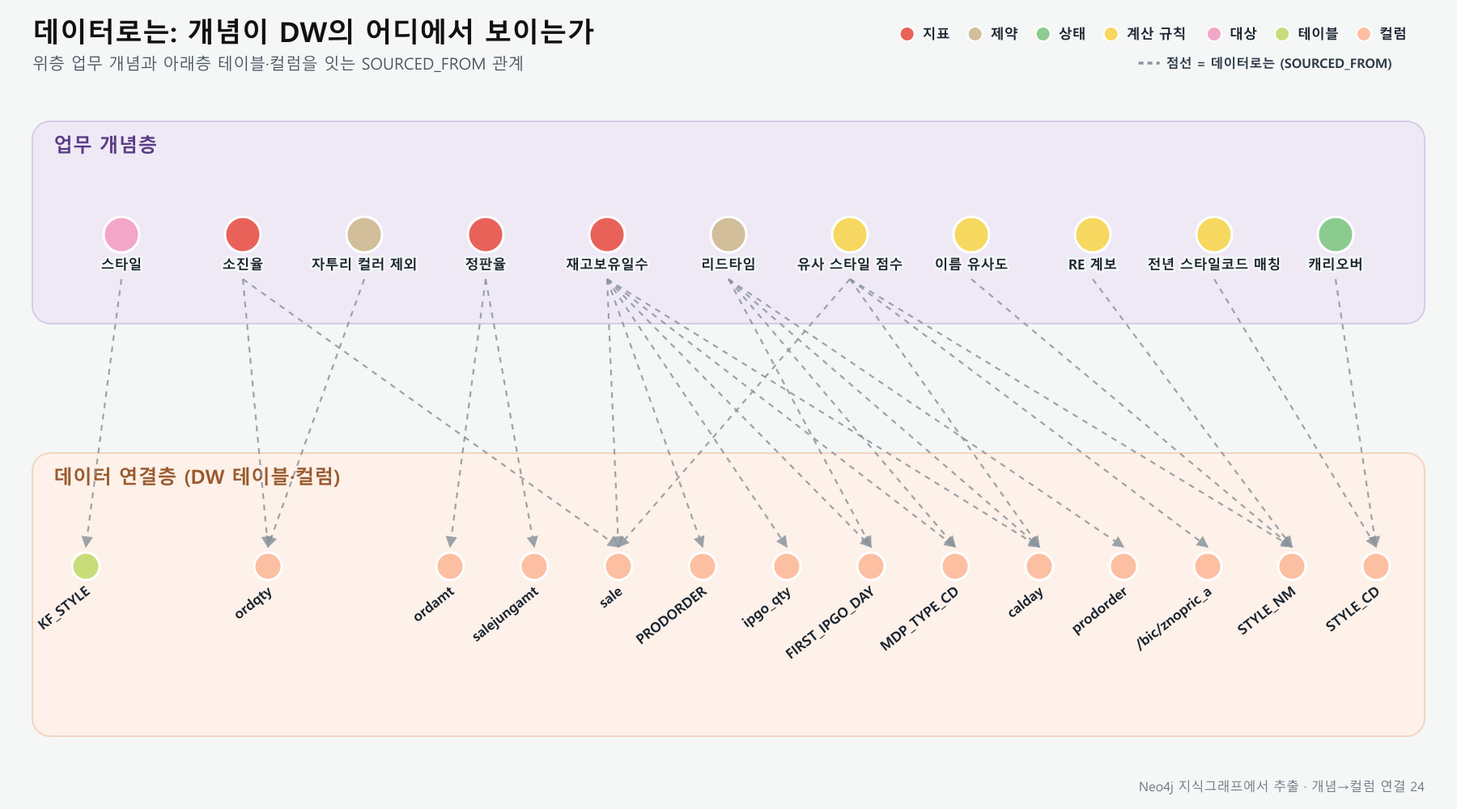
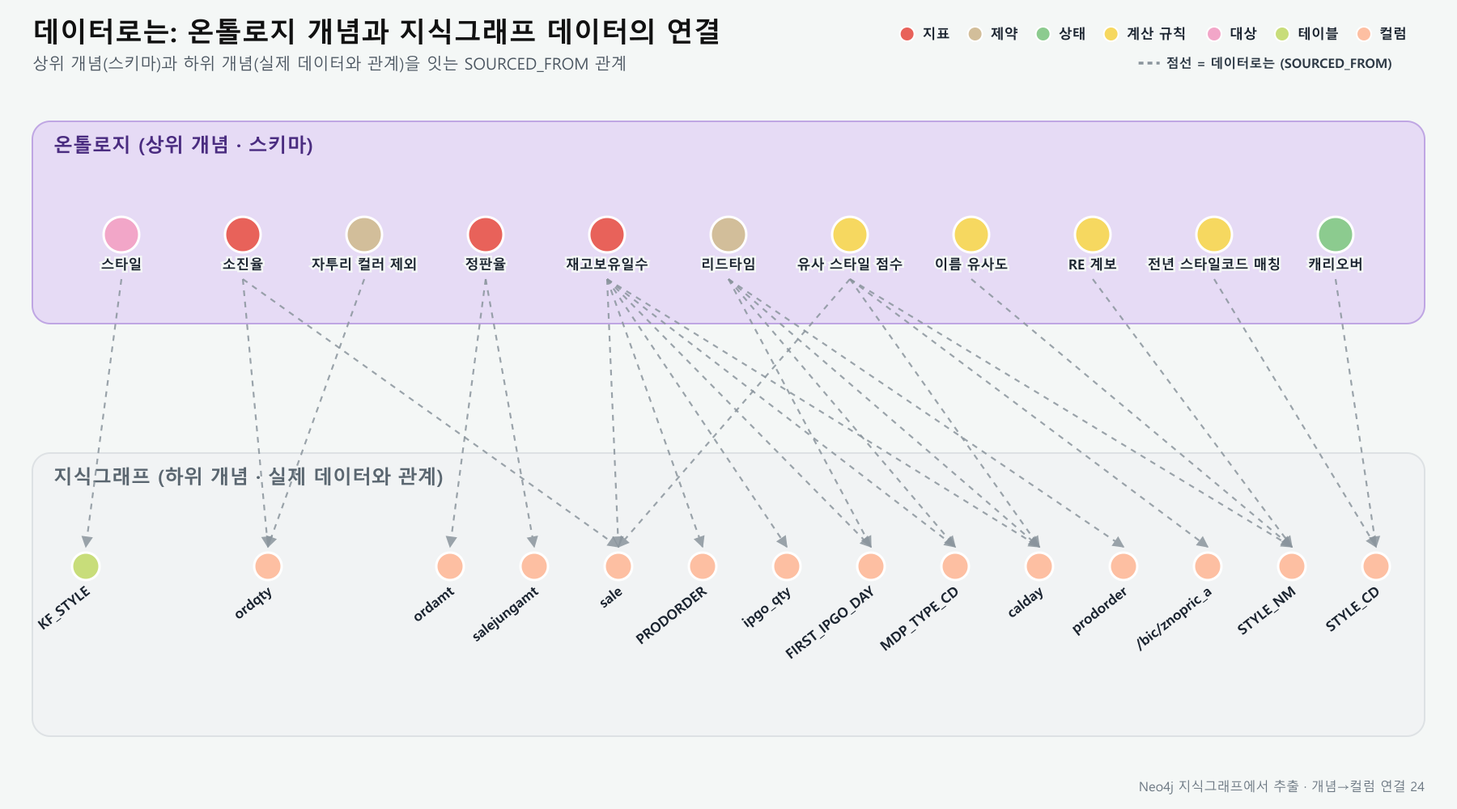
온톨로지·지식그래프 표현 정리, 이미지 클릭 확대, PaaS 배포 건수 카드 등 문구·구성 수정
- 이미지 클릭 시 화면 가득 확대(닫기: 클릭·Esc·버튼)
- MD 프로젝트: 제목 변경, 성과 카드(질문 범위 확대) 정리, 주관 판단 문구 삭제
  온톨로지(상위 개념·스키마)에 색칠, 지식그래프(하위 개념·실제 데이터와 관계)로 층 이름 변경
  질문 처리 과정 3단계로 간소화, 진행 단계 4개로 교체, 데이터 연결 이미지 재작성
- PaaS: 배포 건수 카드를 성공률 90% 반영해 앞에 추가
- AX 교육: 배경 문구 교체, 커넥터 교육자료 캡션 정리
- 단계 표시 열 수를 단계 개수에 맞춤

Changed region(s): [[0.0311, 0.0, 0.4978, 0.093], [0.0311, 0.558, 0.3111, 0.62], [0.0311, 0.155, 0.2178, 0.186]]

diff --git a/src/data/projects.ts b/src/data/projects.ts
@@ -4,7 +4,7 @@ export type FeatureItem = { title: string; body: string };
 export type FeatureSection = { eyebrow: string; title: string; summary: string; items: FeatureItem[] };
 export type VisionStep = { title: string; body: string };
 export type Vision = { lead: string; note: string; steps: VisionStep[]; jobs: string[] };
-export type SystemLayer = { name: string; role: string; items: { label: string; note?: string }[] };
+export type SystemLayer = { name: string; role: string; items: { label: string; note?: string }[]; /** true 인 층을 색 바탕으로 강조 (없으면 마지막 층) */ tint?: boolean };
 export type SystemArchitecture = {
   intro: string;
   layers: SystemLayer[];
@@ -280,7 +280,7 @@ export const PROJECTS: Project[] = [
     slug: "md-ontology-design",
     part: 1,
     group: "② 온톨로지",
-    title: "MD 업무 온톨로지 구축: 데이터 카탈로그에서 업무 개념층으로",
+    title: "온톨로지 구축: 데이터 카탈로그에 업무 개념층 추가",
     short: "MD 업무 온톨로지",
     subtitle: "DW 테이블·컬럼 중심의 시맨틱 레이어에서 업무 판단 개념을 추가한 업무 온톨로지 재설계",
     period: "2026.11 ~ 진행 중",
@@ -288,7 +288,7 @@ export const PROJECTS: Project[] = [
     purpose:
       "기존 데이터 카탈로그(시맨틱 레이어)에서 업무 노하우를 담은 온톨로지 구축을 통한 판단 질문까지 답변 범위 확장",
     metrics: [
-      { value: "질문 범위 확대", label: "주관적인 판단 질문에도 응답할 수 있음", note: "할인율 · 리오더수량 · 리오더시점 · 분배 · 주력판매채널" }
+      { value: "할인율 · 리오더수량 · 리오더시점 · 분배 · 주력판매채널", label: "질문 범위 확대" }
     ],
     roles: [
       "MD 출신 당사자로서 테이블을 보지 않고 매주 내리던 판단 5가지를 인터뷰 형식으로 끌어내 업무 개념과 인과 관계부터 정리",
@@ -300,17 +300,15 @@ export const PROJECTS: Project[] = [
       "회사의 불문율·업무 방식이 들어 있지 않아, 시맨틱 레이어가 있더라도 사용자가 세션마다 회사의 판단 기준을 그때그때 넣어줘야 했음.",
     system: {
       intro:
-        "층 뒤집기. 위층에 MD 지식으로 만든 업무 개념층을, 아래층에 지금까지 만든 데이터 연결층을 배치. ‘핏 불만 → 사이즈 이슈 → 반품 증가 → 정판율 하락’ 같은 관계는 어떤 DW에도 적혀 있지 않은 MD 경험 지식이며, 이것이 온톨로지의 본체이자 KPI 질의 스킬과 결정적으로 갈리는 지점임. 점선 ‘데이터로는’ 관계가 위층 개념을 아래층 데이터에 연결.",
+        "기존 지식그래프(시맨틱 레이어)는 DW 데이터 연결층으로 ‘핏 불만 → 사이즈 이슈 → 반품 증가 → 정판율 하락’ 같은 MD 경험 지식을 담아 빠른 의사결정을 지원하고자 함",
       layers: [
-        { name: "1. 업무 개념층 (MD 지식)", role: "명사는 개념, 동사는 관계. 개념은 DW가 아니라 MD 세계에서 온 바구니(라벨)로 구분.", items: [{ label: "지표", note: "소진율 · 정판율 · 재고보유일수 · 초기 판매율" }, { label: "상태·단계", note: "PLC 도입 · 성장 · 피크 · 감소" }, { label: "판단", note: "리오더 · 채널 주력 · 할인 시점 · 다음 시즌 발주" }, { label: "제약", note: "재고보유일수 · 리드타임" }, { label: "시점·사건", note: "시즌 엔딩 · 시즌오프 · 예측 피크 통과" }] },
-        { name: "2. 데이터 연결층 (기존 지식그래프)", role: "개념이 ‘데이터로는 어디서 보이는가’를 알려주는 층. 지금까지의 작업은 버려지지 않고 위층이 데이터를 잘못 읽지 않게 보호.", items: [{ label: "정판율 → DW 매출 지표", note: undefined }, { label: "핏 불만 → 리뷰 텍스트 · 플랫폼 세부평가", note: undefined }, { label: "지켜 주는 사실", note: "수선·심의 CS 채널은 고객 리뷰가 아님 · 자사몰 사진은 미수집 · 주얼리는 입고마다 줄이 쌓임" }] }
+        { tint: true, name: "1. 온톨로지 (상위 개념 · 스키마)", role: "명사는 개념, 동사는 관계. 개념은 DW가 아니라 MD 세계에서 온 바구니(라벨)로 구분.", items: [{ label: "지표", note: "소진율 · 정판율 · 재고보유일수 · 초기 판매율" }, { label: "상태·단계", note: "PLC 도입 · 성장 · 피크 · 감소" }, { label: "판단", note: "리오더 · 채널 주력 · 할인 시점 · 다음 시즌 발주" }, { label: "제약", note: "재고보유일수 · 리드타임" }, { label: "시점·사건", note: "시즌 엔딩 · 시즌오프 · 예측 피크 통과" }] },
+        { name: "2. 지식그래프 (하위 개념 · 실제 데이터와 관계)", role: "개념이 ‘데이터로는 어디서 보이는가’를 알려주는 층. 지금까지의 작업은 버려지지 않고 위층이 데이터를 잘못 읽지 않게 보호.", items: [{ label: "정판율 → DW 매출 지표", note: undefined }, { label: "핏 불만 → 리뷰 텍스트 · 플랫폼 세부평가", note: undefined }, { label: "지켜 주는 사실", note: "수선·심의 CS 채널은 고객 리뷰가 아님 · 자사몰 사진은 미수집 · 주얼리는 입고마다 줄이 쌓임" }] }
       ],
       flow: [
-        { title: "판단 질문", body: "“이 스타일 왜 안 팔려? 어떻게 해야 해?”처럼 숫자가 아니라 판단을 물음." },
-        { title: "판단 노드 찾기", body: "개념층에서 해당 판단 노드를 찾고, 어느 PLC 단계인지부터 확인. 도입기 상품에 할인을 고민하지 않고 쇠퇴기 상품을 리오더하지 않듯, 다섯 판단은 모두 PLC 단계 주변에 매달림." },
-        { title: "막는 관계(예외)", body: "잘 팔리는데도 실행하지 않는 경우는 일반 규칙과 섞지 않고 ‘막는’ 관계로 따로 둠. 일반 규칙만 있는 온톨로지는 ‘팔리면 늘린다’밖에 모르지만, 막는 관계가 있으면 ‘팔리긴 하는데 할인으로 팔린 거라 안 된다’까지 앎." },
-        { title: "데이터로는", body: "여기서야 아래층을 엶. 정판율은 DW 매출 지표에서, 핏 불만은 리뷰 텍스트에서 읽음." },
-        { title: "결과 평가 → 다음 판단", body: "소진율, 재고보유일수(20일 이하면 ‘금방 팔렸다’), 정판율로 잘한 결정이었는지 확인. 후보 기준과 평가 기준이 겹치므로 판단 → 결과 → 다음 판단 고리가 생기고, 이것이 온톨로지가 ‘배우는’ 구조의 시작임." }
+        { title: "사용자 판단 질의", body: "“이 스타일 왜 안 팔려? 어떻게 해야 해?”" },
+        { title: "판단 노드 찾기", body: "도입기, 쇠퇴기 등 어느 PLC 단계인지 확인." },
+        { title: "데이터로는", body: "하위 개념인 지식그래프를 통해 정확한 숫자 확인. 정판율은 매출 지표에서, 핏 불만은 리뷰 텍스트 테이블 조회." }
       ],
       principles: [
         { title: "중심은 데이터가 아니라 업무 세계", body: "테이블·컬럼은 개념이 데이터로 어디서 보이는지 알려주는 아래층일 뿐입니다. 라벨도 Table·Column이 아니라 지표·상태·판단·제약·시점처럼 MD 세계에서 온 바구니로 만듭니다." },
@@ -320,12 +318,12 @@ export const PROJECTS: Project[] = [
         { title: "테이블은 마지막에 연다", body: "Neo4j도 Snowflake도 열지 않고 인터뷰와 표 두 개(개념 표·관계 표)로 시작합니다. 표가 차면 그때 Neo4j로 옮기고, 방법은 익힌 MERGE 그대로입니다." }
       ]
     },
-    steps: ["데이터 카탈로그 진단", "2층 구조로 뒤집기", "MD 주간 판단 5가지 인터뷰", "개념 표 · 관계 표 작성", "Neo4j로 이관(예정)"],
+    steps: ["SO/MD 직무 인터뷰 (업무 내 판단 기준)","개념 표 · 관계 표 작성","Neo4j로 이관","Neo4j MCP 연결"],
     stack: ["Neo4j", "Cypher 쿼리", "Snowflake"],
     image: {
       src: "/projects/md-ontology-overview.png",
       alt: "업무 개념층 그래프: 판단·지표·상태·사건·제약·계산 규칙 30개 노드와 38개 관계",
-      caption: "업무 개념층 그래프: 판단·지표·상태·사건·제약·계산 규칙이 원인과 근거로 이어진 구조 (노드 30 · 관계 38)",
+      caption: "온톨로지 (상위 개념): 판단·지표·상태·사건·제약·계산 규칙이 원인과 근거로 이어진 업무 개념층 (노드 30 · 관계 38)",
       width: 1800,
       height: 1000
     },
@@ -347,7 +345,7 @@ export const PROJECTS: Project[] = [
       {
         src: "/projects/md-ontology-data-link.png",
         alt: "업무 개념 노드가 DW 테이블과 컬럼 노드에 점선으로 연결된 2층 구조 그래프",
-        caption: "데이터로는: 위층 업무 개념과 아래층 DW 컬럼을 잇는 SOURCED_FROM 관계 (연결 24)",
+        caption: "데이터로는: 상위 개념(온톨로지)과 하위 개념(지식그래프)을 잇는 SOURCED_FROM 관계 (연결 24)",
         width: 1800,
         height: 1000
       }
@@ -372,7 +370,10 @@ export const PROJECTS: Project[] = [
       "현업이 직접 만든 웹도구를 개발자 도움 없이 배포하고 운영 지원하는 사내 PaaS. 전체 배포현황 및 웹별 MAU·호출 수, 배포 도메인 통합 관리",
     background:
       "개별 직원이 제작한 웹서비스를 개별 서버로 배포하니 회사 내부 정보 관리가 어렵고 외부 DB·외부 호스팅으로 회사 데이터 반출되는 현황 파악 어려움. 배포를 회사 안으로 모아 한곳에서 관리하고, 내부 정보·보안·비용을 통합하고자 제작",
-    metrics: [{ value: "90%", label: "배포 성공률", note: "n=235건" }],
+    metrics: [
+      { value: "235건", label: "배포 건수", note: "성공률 90% 반영 시 성공 약 212건 · 실패 약 23건" },
+      { value: "90%", label: "배포 성공률", note: "235건 중 약 212건 성공" }
+    ],
     roles: [
       "원클릭 배포 가드레일 문서(AI 개발 도구용 규칙) 작성과 배포, 교육",
       "Claude Code Skill 요구사항·호출 조건·동작 방식 설계: 배포 전에 프로젝트를 PaaS 기준에 맞게 점검",
@@ -554,7 +555,7 @@ export const PROJECTS: Project[] = [
     period: "2026.02 ~ 진행 중",
     purpose: "조직 내 AX 전환율 20% 달성을 위해 교육·온보딩·운영 지원을 설계",
     background:
-      "AI 도구를 쓰라고는 했지만 ‘어디서 무엇부터 시작해야 하는지’를 아는 직원이 적음. 일회성 강의는 듣고 끝났고, 자기 업무 문제를 Agent로 만들어 본 사람은 드묾. 수준 차이가 커서 같은 강의로는 초보에게는 어렵고 숙련자에게는 지루함.\n소규모로, 수준별로, 반복해서 가르치고, 교육이 끝나면 실제로 Agent 하나를 만들어 올리는 것까지를 완료 기준으로 삼는 교육이 필요함.",
+      "사내 AX 전환 20%를 위해 어디서부터 시작해야 할지 모르는 직원들을 위해 소규모로, 수준별 반복 오프라인 교육 진행하여 세션별로 인원이 신청해서 수강. 매 세션 종료 시 웹 형태의 본인 도구 하나 완성",
     metrics: [
       { value: "약 500명", label: "AI Agent 교육" }
     ],
@@ -605,7 +606,7 @@ export const PROJECTS: Project[] = [
       height: 1536
     },
     images: [
-      { src: "/projects/ax-connector-slide.png", alt: "교육자료 ‘커넥터(Connector)란?’ 슬라이드: 클로드를 사내 시스템에 꽂아주는 전원 콘센트라는 비유, 꼭 알아둘 점 4가지(사내 커넥터 하나만 연결, 끊기면 ‘데이터가 없습니다’, 읽기 전용, 사내 계정 로그인 필요), 커넥터 안의 연결 4개(dw-mcp 사내 DW, graph-mcp 지식그래프, mail-mcp 메일·일정, hr-mcp 인사 시스템)", caption: "교육자료 중 ‘커넥터(Connector)란?’: 비유 → 꼭 알아둘 점 4가지 → 커넥터 안의 연결 4개 순서로, 개발 용어 대신 콘센트 비유로 설명하는 슬라이드 (시스템·브랜드명은 일반 명칭으로 바꿈)", width: 2400, height: 1400 }
+      { src: "/projects/ax-connector-slide.png", alt: "교육자료 ‘커넥터(Connector)란?’ 슬라이드: 클로드를 사내 시스템에 꽂아주는 전원 콘센트라는 비유, 꼭 알아둘 점 4가지(사내 커넥터 하나만 연결, 끊기면 ‘데이터가 없습니다’, 읽기 전용, 사내 계정 로그인 필요), 커넥터 안의 연결 4개(dw-mcp 사내 DW, graph-mcp 지식그래프, mail-mcp 메일·일정, hr-mcp 인사 시스템)", caption: "커넥터 교육자료", width: 2400, height: 1400 }
     ],
     tags: ["AI Agent 교육", "교육", "온보딩"]
   },

diff --git a/src/data/projects.en.ts b/src/data/projects.en.ts
@@ -255,7 +255,7 @@ export const PROJECTS_EN: Record<string, Partial<Project>> = {
   },
   "md-ontology-design": {
     group: "② Ontology",
-    title: "Building the MD Business Ontology: From Data Catalog to Concept Layer",
+    title: "Building the Ontology: Adding a Business-Concept Layer to the Data Catalog",
     short: "MD business ontology",
     subtitle: "From a semantic layer centered on DW tables and columns to a business ontology with business-judgment concepts added",
     period: "2026.11 – ongoing",
@@ -263,7 +263,7 @@ export const PROJECTS_EN: Record<string, Partial<Project>> = {
     purpose:
       "Extends the range of answers to judgment questions by building an ontology that holds business know-how on top of the existing data catalog (semantic layer)",
     metrics: [
-      { value: "Wider question scope", label: "Can also answer subjective judgment questions", note: "markdown rate · reorder quantity · reorder timing · allocation · main sales channel" }
+      { value: "markdown rate · reorder quantity · reorder timing · allocation · main sales channel", label: "Wider question scope" }
     ],
     roles: [
       "As a former merchandiser, drew out the five weekly decisions in interview form, without looking at tables, and organized business concepts and causal relations first",
@@ -275,17 +275,15 @@ export const PROJECTS_EN: Record<string, Partial<Project>> = {
       "The company's unwritten rules and ways of working were not in it, so even with a semantic layer, users had to enter the company's judgment criteria again in every session.",
     system: {
       intro:
-        "Flip the layers: the business-concept layer built from MD knowledge on top, the data-link layer built so far below. A relation such as ‘fit complaints → size issue → more returns → lower full-price sell-through’ exists in no DW; it is the body of the ontology and the point where it parts from the KPI query skill. Dotted ‘seen in data as’ relations connect upper concepts to lower data.",
+        "The existing knowledge graph (semantic layer) serves as the DW data-link layer, while MD experience knowledge such as ‘fit complaints → size issue → more returns → lower full-price sell-through’ is added to support faster decisions",
       layers: [
-        { name: "1. Business-concept layer (MD knowledge)", role: "Nouns become concepts, verbs become relations. Concepts are grouped into buckets (labels) from the MD world, not the DW.", items: [{ label: "Metrics", note: "sell-out rate · full-price sell-through · days of stock · early sell-through" }, { label: "States / stages", note: "PLC early · growth · peak · decline" }, { label: "Decisions", note: "reorder · channel focus · markdown timing · next-season orders" }, { label: "Constraints", note: "days of stock · lead time" }, { label: "Timing / events", note: "season end · off-season sale · forecast peak passed" }] },
-        { name: "2. Data-link layer (existing knowledge graph)", role: "Says where each concept is visible in data. Nothing built so far is thrown away; it keeps the upper layer from misreading data.", items: [{ label: "Full-price sell-through → DW sales metrics", note: undefined }, { label: "Fit complaints → review text · platform detail ratings", note: undefined }, { label: "Guarding facts", note: "the repair/inspection CS channel is not customer reviews · company-mall photos are not collected · jewelry accumulates lines per receipt" }] }
+        { tint: true, name: "1. Ontology (upper concepts · schema)", role: "Nouns become concepts, verbs become relations. Concepts are grouped into buckets (labels) from the MD world, not the DW.", items: [{ label: "Metrics", note: "sell-out rate · full-price sell-through · days of stock · early sell-through" }, { label: "States / stages", note: "PLC early · growth · peak · decline" }, { label: "Decisions", note: "reorder · channel focus · markdown timing · next-season orders" }, { label: "Constraints", note: "days of stock · lead time" }, { label: "Timing / events", note: "season end · off-season sale · forecast peak passed" }] },
+        { name: "2. Knowledge graph (lower concepts · real data and relations)", role: "Says where each concept is visible in data. Nothing built so far is thrown away; it keeps the upper layer from misreading data.", items: [{ label: "Full-price sell-through → DW sales metrics", note: undefined }, { label: "Fit complaints → review text · platform detail ratings", note: undefined }, { label: "Guarding facts", note: "the repair/inspection CS channel is not customer reviews · company-mall photos are not collected · jewelry accumulates lines per receipt" }] }
       ],
       flow: [
-        { title: "Judgment question", body: "Not a number but a decision: “Why isn't this style selling? What should we do?”" },
-        { title: "Find the decision node", body: "Locate the relevant decision node in the concept layer and first check the PLC stage. Just as you do not discount an early-stage product or reorder a declining one, all five decisions hang around the PLC stage." },
-        { title: "Blocking relations (exceptions)", body: "Cases where something sells well but is still not acted on are kept out of the general rules and modeled as separate ‘blocks’ relations. An ontology with only general rules knows ‘it sells, so scale up’; with blocking relations it also knows ‘it sells, but on markdown, so no’." },
-        { title: "Seen in data as", body: "Only now the lower layer is opened: full-price sell-through from DW sales metrics, fit complaints from review text." },
-        { title: "Evaluate → next decision", body: "Judge the decision by sell-out rate, days of stock (20 days or less means ‘sold quickly’) and full-price sell-through. Because candidate criteria and evaluation criteria overlap, a decision → result → next decision loop forms: the start of an ontology that learns." }
+        { title: "User judgment query", body: "“Why isn't this style selling? What should we do?”" },
+        { title: "Find the decision node", body: "Check which PLC stage it is in, such as introduction or decline." },
+        { title: "Seen in data as", body: "Confirm exact numbers through the lower-level knowledge graph: full-price sell-through from sales metrics, fit complaints from review-text tables." }
       ],
       principles: [
         { title: "Center on the business world, not the data", body: "Tables and columns are only the lower layer that says where a concept appears in data. Labels come from the MD world (metric, state, decision, constraint, timing), not Table and Column." },
@@ -295,12 +293,12 @@ export const PROJECTS_EN: Record<string, Partial<Project>> = {
         { title: "Open the tables last", body: "Start with the interview and two tables (concepts, relations), with neither Neo4j nor Snowflake open. Move to Neo4j once the tables fill up, using the same MERGE approach as before." }
       ]
     },
-    steps: ["Diagnose the data catalog", "Flip into two layers", "Interview: five weekly MD decisions", "Write concept and relation tables", "Migrate to Neo4j (planned)"],
+    steps: ["Interview SO/MD staff (judgment criteria in the work)","Write concept and relation tables","Migrate to Neo4j","Connect the Neo4j MCP"],
     stack: ["Neo4j", "Cypher queries", "Snowflake"],
     image: {
       src: "/projects/md-ontology-overview.png",
       alt: "Business-concept layer graph: 30 nodes and 38 relations among decisions, metrics, states, events, restrictions and calculation rules",
-      caption: "Business-concept layer graph: decisions, metrics, states, events, restrictions and calculation rules linked as causes and grounds (30 nodes · 38 relations)",
+      caption: "Ontology (upper concepts): the business-concept layer where decisions, metrics, states, events, restrictions and calculation rules are linked as causes and grounds (30 nodes · 38 relations)",
       width: 1800,
       height: 1000
     },
@@ -322,7 +320,7 @@ export const PROJECTS_EN: Record<string, Partial<Project>> = {
       {
         src: "/projects/md-ontology-data-link.png",
         alt: "Two-layer graph with business-concept nodes joined by dotted lines to DW table and column nodes",
-        caption: "Seen in data as: SOURCED_FROM relations tie upper-layer business concepts to lower-layer DW columns (24 links)",
+        caption: "Seen in data as: SOURCED_FROM relations tie upper concepts (ontology) to lower concepts (knowledge graph) (24 links)",
         width: 1800,
         height: 1000
       }
@@ -345,7 +343,10 @@ export const PROJECTS_EN: Record<string, Partial<Project>> = {
       "An in-house PaaS where line staff deploy the web tools they build without developer help and get operations support. Overall deployment status, per-app MAU and call counts, and deployment domains are managed in one place.",
     background:
       "Web services built by individual employees were deployed to individual servers, which made company information hard to manage and made it hard to see which company data left through external DBs and external hosting.\nThe in-house PaaS was built to bring deployment inside the company, manage it in one place, and consolidate internal information, security and cost.",
-    metrics: [{ value: "90%", label: "Deployment success rate", note: "n=235 deployments" }],
+    metrics: [
+      { value: "235", label: "Deployments", note: "At a 90% success rate: about 212 succeeded · about 23 failed" },
+      { value: "90%", label: "Deployment success rate", note: "About 212 of 235 deployments succeeded" }
+    ],
     roles: [
       "Wrote, distributed and taught the one-click deployment guardrails (rules for AI coding tools)",
       "Designed Claude Code skills (requirements, triggers, behavior) that check a project against PaaS rules before deployment",
@@ -949,7 +950,7 @@ export const PROJECTS_EN: Record<string, Partial<Project>> = {
     period: "2026.02 – ongoing",
     purpose: "Designed training, onboarding and operational support to reach a 20% AX conversion rate across the organization.",
     background:
-      "People were told to use AI tools, but few knew where or what to start with. One-off lectures ended when they ended, and hardly anyone had turned a problem from their own work into an agent. Skill levels varied so much that one lecture was too hard for beginners and dull for experienced users.\nTraining had to be small, leveled and repeated, with one real agent built and published as the completion criterion.",
+      "To reach 20% AX adoption in-house, small-group, level-based offline training is repeated for employees who do not know where to start. Employees sign up per session to attend, and by the end of every session each person completes one web-based tool of their own.",
     metrics: [{ value: "~500", label: "People trained in AI agents" }],
     roles: [
       "Designed the curriculum and job-specific hands-on exercises",
@@ -979,7 +980,7 @@ export const PROJECTS_EN: Record<string, Partial<Project>> = {
       height: 1536
     },
     images: [
-      { src: "/projects/ax-connector-slide.png", alt: "Training slide ‘What is a connector?’: the power-outlet analogy for plugging Claude into company systems, four things to know (connect only the company connector, ‘no data’ when disconnected, read-only, company login required), and the four connections inside (dw-mcp company DW, graph-mcp knowledge graph, mail-mcp mail and calendar, hr-mcp HR system)", caption: "From the training deck, ‘What is a connector?’: analogy → four things to know → the four connections inside, explained with a power-outlet metaphor instead of developer terms (system and brand names generalized)", width: 2400, height: 1400 }
+      { src: "/projects/ax-connector-slide.png", alt: "Training slide ‘What is a connector?’: the power-outlet analogy for plugging Claude into company systems, four things to know (connect only the company connector, ‘no data’ when disconnected, read-only, company login required), and the four connections inside (dw-mcp company DW, graph-mcp knowledge graph, mail-mcp mail and calendar, hr-mcp HR system)", caption: "Connector training material", width: 2400, height: 1400 }
     ],
     tags: ["AI agent training", "Training", "Onboarding"]
   },

diff --git a/src/components/project-sections.tsx b/src/components/project-sections.tsx
@@ -1,25 +1,10 @@
-import Image from "next/image";
 import type { ReactNode } from "react";
-import type { CatalogItem, FeatureSection, Insight, Metric, ProjectImage, SystemArchitecture, VisionStep } from "@/data/projects";
+import { Figure } from "@/components/figure";
+import type { CatalogItem, FeatureSection, Insight, Metric, SystemArchitecture, VisionStep } from "@/data/projects";
 import type { UIStrings } from "@/data/i18n";
 
-/** 설명 글이 달린 그림 한 장 */
-export function Figure({ image, priority = false }: { image: ProjectImage; priority?: boolean }) {
-  return (
-    <figure className="overflow-hidden rounded-2xl border border-line bg-surface">
-      <Image
-        src={image.src}
-        alt={image.alt}
-        width={image.width}
-        height={image.height}
-        sizes="(min-width: 1152px) 1120px, 100vw"
-        priority={priority}
-        className="h-auto w-full"
-      />
-      {image.caption ? <figcaption className="ko-keep border-t border-line px-5 py-3 text-sm font-bold text-ink">{image.caption}</figcaption> : null}
-    </figure>
-  );
-}
+/** 클릭하면 확대되는 그림 (클라이언트 컴포넌트) */
+export { Figure };
 
 export function SectionTitle({ eyebrow, title, id }: { eyebrow?: string; title: string; id?: string }) {
   return (
@@ -35,12 +20,13 @@ export function Block({ children, className = "" }: { children: ReactNode; class
 }
 
 export function MetricGrid({ metrics }: { metrics: Metric[] }) {
-  const cols = metrics.length >= 4 ? "grid-cols-2 lg:grid-cols-4" : metrics.length === 3 ? "grid-cols-1 sm:grid-cols-3" : "grid-cols-1 sm:grid-cols-2";
+  const cols =
+    metrics.length >= 4 ? "grid-cols-2 lg:grid-cols-4" : metrics.length === 3 ? "grid-cols-1 sm:grid-cols-3" : metrics.length === 1 ? "grid-cols-1" : "grid-cols-1 sm:grid-cols-2";
   return (
     <div className={`grid gap-3 ${cols}`}>
       {metrics.map((metric) => (
         <div key={metric.label} className="border border-line bg-paper p-5">
-          <p className="text-3xl font-black leading-none text-[color:var(--price)] sm:text-4xl">{metric.value}</p>
+          <p className={`text-3xl font-black text-[color:var(--price)] sm:text-4xl ${metric.value.length > 14 ? "leading-snug" : "leading-none"}`}>{metric.value}</p>
           <p className="ko-keep mt-3 text-base font-extrabold text-ink">{metric.label}</p>
           {metric.note ? <p className="ko-keep mt-1 text-sm font-semibold text-muted">{metric.note}</p> : null}
         </div>
@@ -49,9 +35,11 @@ export function MetricGrid({ metrics }: { metrics: Metric[] }) {
   );
 }
 
+const STEP_COLS: Record<number, string> = { 1: "sm:grid-cols-1", 2: "sm:grid-cols-2", 3: "sm:grid-cols-3", 4: "sm:grid-cols-4", 5: "sm:grid-cols-5" };
+
 export function StepFlow({ steps }: { steps: string[] }) {
   return (
-    <ol className="oy-grid grid-cols-1 sm:grid-cols-5">
+    <ol className={`oy-grid grid-cols-1 ${STEP_COLS[Math.min(Math.max(steps.length, 1), 5)]}`}>
       {steps.map((step, index) => (
         <li key={step} className="flex items-start gap-3 bg-paper p-4 sm:flex-col sm:gap-3">
           <span className="flex h-8 w-8 shrink-0 items-center justify-center rounded-full bg-ink text-sm font-black text-paper">{index + 1}</span>
@@ -208,7 +196,7 @@ export function SystemDiagram({ system, ui, showPrinciples = true }: { system: S
         {system.layers.map((layer, index) => (
           <div
             key={layer.name}
-            className={`grid gap-3 p-5 lg:grid-cols-[15rem_1fr] lg:gap-6 ${index < system.layers.length - 1 ? "border-b border-line" : ""} ${index === system.layers.length - 1 ? "tone-soft" : index % 2 === 1 ? "bg-surface" : "bg-paper"}`}
+            className={`grid gap-3 p-5 lg:grid-cols-[15rem_1fr] lg:gap-6 ${index < system.layers.length - 1 ? "border-b border-line" : ""} ${(system.layers.some((l) => l.tint) ? layer.tint : index === system.layers.length - 1) ? "tone-soft" : index % 2 === 1 ? "bg-surface" : "bg-paper"}`}
           >
             <div>
               <h3 className="ko-keep text-lg font-black text-ink">{layer.name}</h3>

diff --git a/src/components/figure.tsx b/src/components/figure.tsx
@@ -1,0 +1,76 @@
+"use client";
+
+import { Maximize2, X } from "lucide-react";
+import Image from "next/image";
+import { useEffect, useState } from "react";
+import type { ProjectImage } from "@/data/projects";
+
+/** 설명 글이 달린 그림 한 장. 클릭하면 화면 가득 확대해서 보여 줍니다. */
+export function Figure({ image, priority = false }: { image: ProjectImage; priority?: boolean }) {
+  const [open, setOpen] = useState(false);
+
+  useEffect(() => {
+    if (!open) return;
+    const onKey = (event: KeyboardEvent) => {
+      if (event.key === "Escape") setOpen(false);
+    };
+    const previous = document.body.style.overflow;
+    document.body.style.overflow = "hidden";
+    window.addEventListener("keydown", onKey);
+    return () => {
+      document.body.style.overflow = previous;
+      window.removeEventListener("keydown", onKey);
+    };
+  }, [open]);
+
+  return (
+    <>
+      <figure className="overflow-hidden rounded-2xl border border-line bg-surface">
+        <button type="button" onClick={() => setOpen(true)} aria-label={image.alt} className="group relative block w-full cursor-zoom-in">
+          <Image
+            src={image.src}
+            alt={image.alt}
+            width={image.width}
+            height={image.height}
+            sizes="(min-width: 1152px) 1120px, 100vw"
+            priority={priority}
+            className="h-auto w-full"
+          />
+          <span className="pointer-events-none absolute right-3 top-3 flex h-9 w-9 items-center justify-center rounded-full bg-ink text-paper opacity-80 shadow transition group-hover:opacity-100">
+            <Maximize2 className="h-4 w-4" aria-hidden="true" />
+          </span>
+        </button>
+        {image.caption ? <figcaption className="ko-keep border-t border-line px-5 py-3 text-sm font-bold text-ink">{image.caption}</figcaption> : null}
+      </figure>
+
+      {open ? (
+        <div
+          role="dialog"
+          aria-modal="true"
+          aria-label={image.caption ?? image.alt}
+          onClick={() => setOpen(false)}
+          className="fixed inset-0 z-[100] flex cursor-zoom-out flex-col items-center justify-center gap-3 bg-black/85 p-3 sm:p-6"
+        >
+          <button
+            type="button"
+            onClick={() => setOpen(false)}
+            aria-label="닫기"
+            className="absolute right-4 top-4 flex h-10 w-10 items-center justify-center rounded-full bg-white text-black shadow"
+          >
+            <X className="h-5 w-5" aria-hidden="true" />
+          </button>
+          <Image
+            src={image.src}
+            alt={image.alt}
+            width={image.width}
+            height={image.height}
+            sizes="100vw"
+            quality={90}
+            className="h-auto max-h-[86vh] w-auto max-w-full rounded-lg bg-white object-contain"
+          />
+          {image.caption ? <p className="ko-keep max-w-4xl text-center text-sm font-bold leading-6 text-white">{image.caption}</p> : null}
+        </div>
+      ) : null}
+    </>
+  );
+}

diff --git a/src/data/i18n.ts b/src/data/i18n.ts
@@ -55,7 +55,7 @@ const UI = {
         visionHow: "모든 직무를 중심 하네스에 연결하는 방법",
         stack: "기술과 도구"
       },
-      flowTitle: "질문 한 번이 처리되는 순서",
+      flowTitle: "질문 처리 과정",
       principlesTitle: "구조를 지키는 원칙",
       nextLayer: "↓ 다음 층으로",
       dataFlow: "↓ 데이터 흐름 ↓",
@@ -159,7 +159,7 @@ const UI = {
         visionHow: "How to connect every job to the central harness",
         stack: "Stack & tools"
       },
-      flowTitle: "How one question flows through",
+      flowTitle: "How a question is processed",
       principlesTitle: "Principles that hold the structure",
       nextLayer: "↓ to the next layer",
       dataFlow: "↓ data flow ↓",
